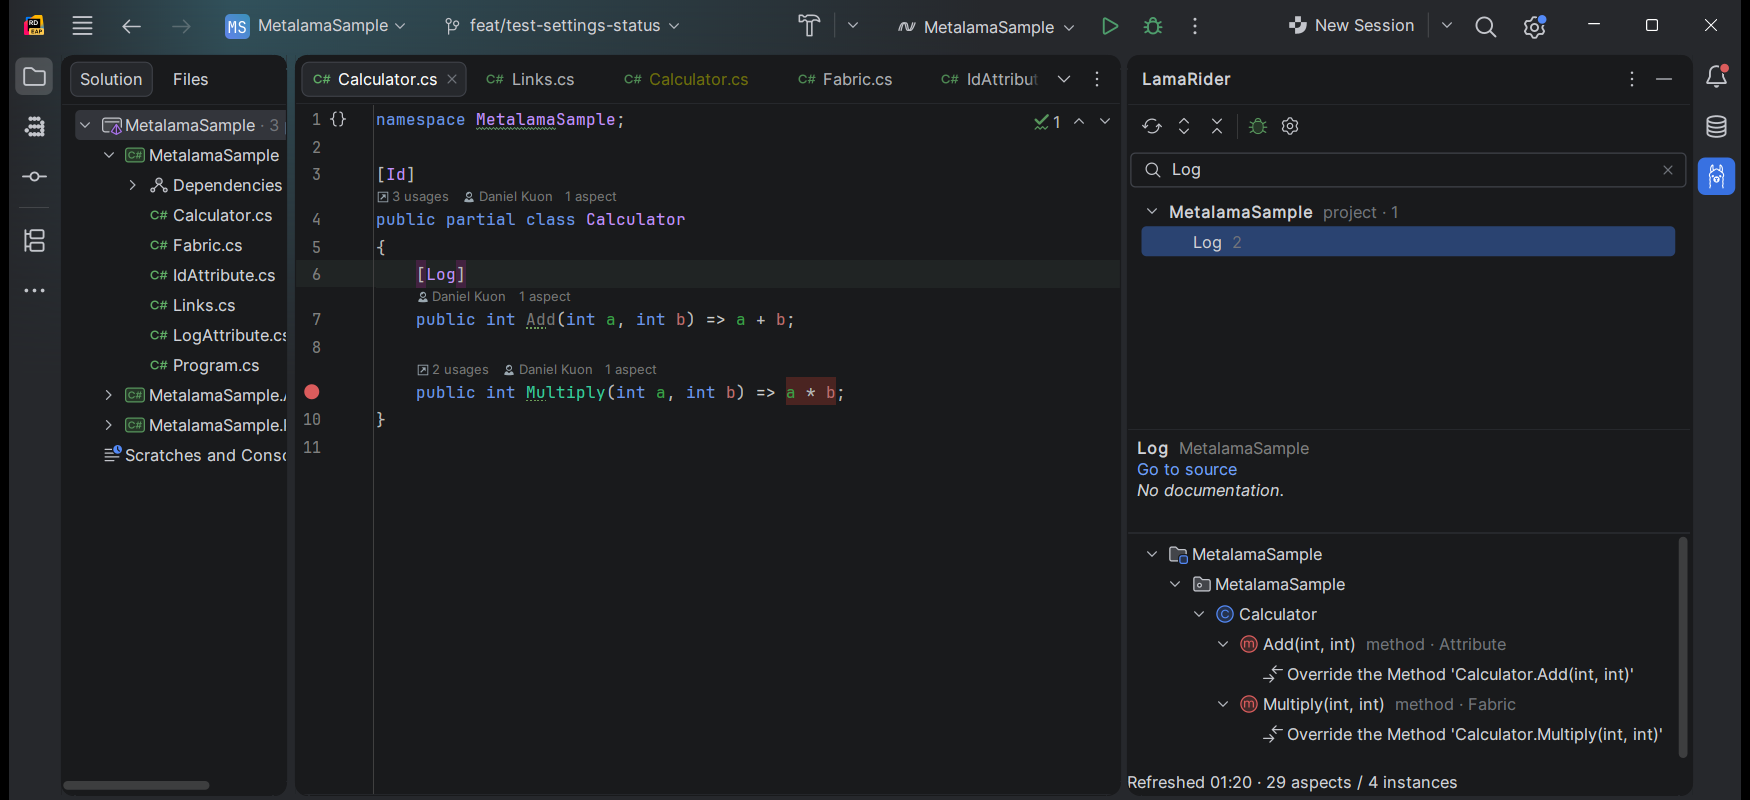
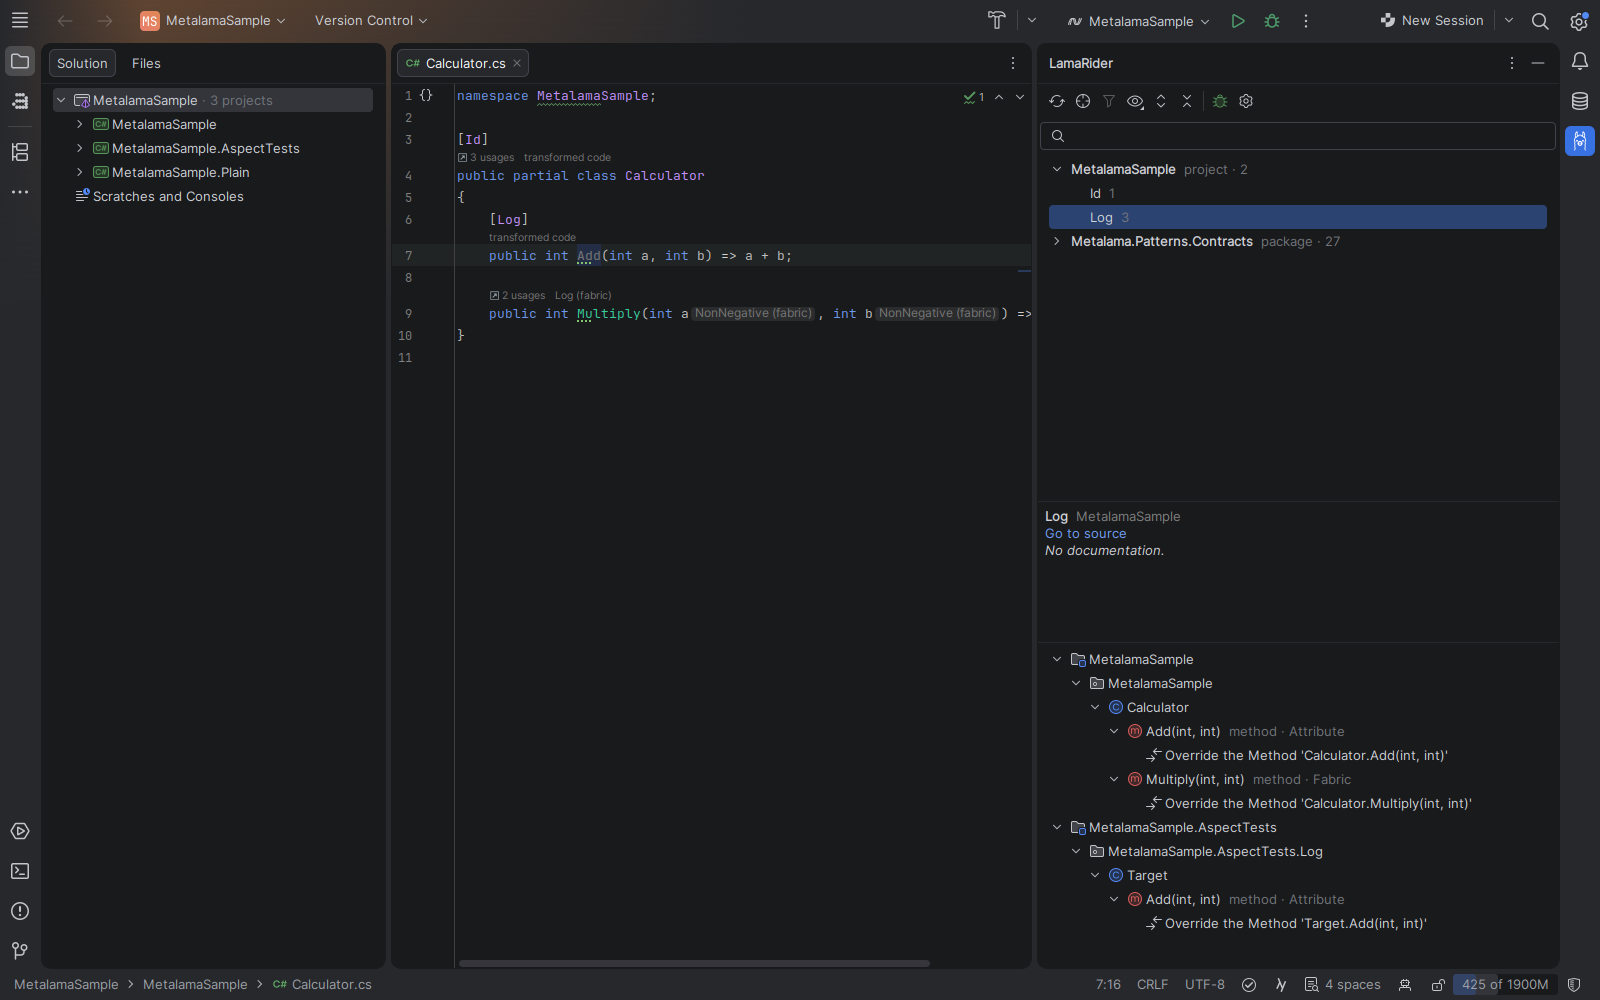
docs: retaken screenshots (ScreenshotsUiTest on the Linux VM)

diff --git a/src/rider/uiTest/kotlin/dev/lamarider/uitest/ScreenshotsUiTest.kt b/src/rider/uiTest/kotlin/dev/lamarider/uitest/ScreenshotsUiTest.kt
@@ -121,7 +121,9 @@ class ScreenshotsUiTest : UiTestBase() {
         Thread.sleep(5000)
         ideFrame { invokeAction("JumpToColorsAndFonts", now = false, component = codeEditor().component) }
         // A chooser first: C# (the class `meta`) or Metalama T#.
-        popup("Template keyword (meta)").click()
+        val item = popup("Template keyword (meta)")
+        item.click()
+        item.keyboard { enter() }
         waitFor("color settings open", timeout = 1.minutes) { ui.x(xQuery { byTitle("Settings") }).present() }
         Thread.sleep(3000)
         shot("tsharp-color-settings", windowOf(popup("Color Scheme")))

diff --git a/README.md b/README.md
@@ -25,8 +25,9 @@ PostSharp classic (MSIL) projects are not supported. **How to use each feature, 
 
 ![LamaRider tool window](docs/screenshots/lamarider-window.png)
 
-The LamaRider tool window (right) with the `Log` aspect selected: its documentation, and its targets with the
-transformations it makes. Open it from the llama icon in the right tool window bar.
+The LamaRider tool window (right) with the `Log` aspect selected: *Go to source*, its documentation, and its targets in
+the solution and in the aspect test project, with the transformations it makes. Open it from the llama icon in the right
+tool window bar.
 
 ![Track Caret](docs/screenshots/track-caret.png)
 
@@ -65,8 +66,9 @@ LAMA documentation and a build, and the error underlined on the aspect classes.
 
 ![Debugging transformed code](docs/screenshots/debug-transformed-code.png)
 
-Stopped at a breakpoint in the transformed code of `Multiply`: *Debug with LamaDebug* in the LamaRider tool window, or
-*Debug transformed code in every build configuration* in the settings, then debug as usual.
+Stepping into `Multiply` lands in its transformed code (the `Log` aspect's `Console.WriteLine` calls are real lines
+there). Use *Debug with LamaDebug* in the LamaRider tool window, or turn on *Debug transformed code in every build
+configuration* in the settings and debug as usual.
 
 ![New aspect test](docs/screenshots/create-aspect-test.png)
 
